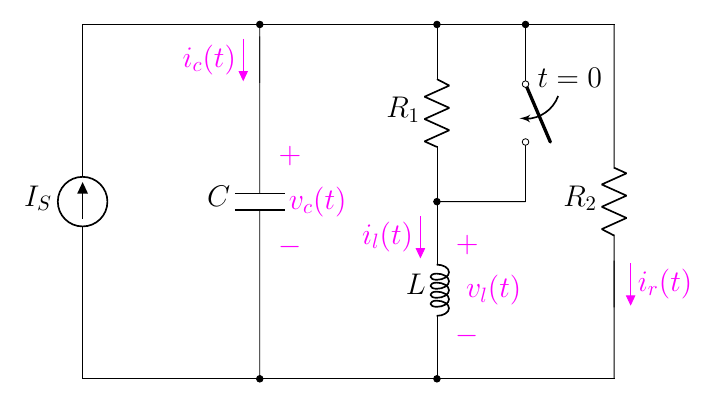
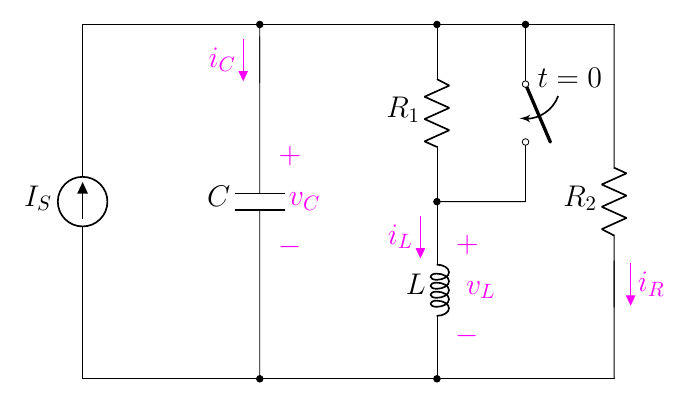
9.36

diff --git a/2.8 Underdamped/9.4 The Underdamped RLC Circuit/9.36-8th(new).tex b/2.8 Underdamped/9.4 The Underdamped RLC Circuit/9.36-8th(new).tex
@@ -37,19 +37,19 @@
     %%% find %%%
     \node at(8.25,5.1) []{$t=0$};
     \draw[magenta](6.2,0.5)
-        to[open,v>=$v_l(t)$] ++(0,2);
+        to[open,v>=$v_L$] ++(0,2);
 
     \draw[magenta](3.2,2)
-        to[open,v>=$v_c(t)$] ++(0,2);
+        to[open,v>=$v_C$] ++(0,2);
 
     \draw[circuitikz/current arrow color=magenta](6,2.8)
-        to[open,f>_=$\color{magenta}{i_l(t)}$] ++(0,-2);
+        to[open,f>_=$\color{magenta}{i_L}$] ++(0,-2);
 
     \draw[circuitikz/current arrow color=magenta](3,5.8)
-        to[open,f>_=$\color{magenta}{i_c(t)}$] ++(0,-2);
+        to[open,f>_=$\color{magenta}{i_C}$] ++(0,-2);
 
     \draw[circuitikz/current arrow color=magenta](9,2)
-        to[open,f>^=$\color{magenta}{i_r(t)}$] ++(0,-2);
+        to[open,f>^=$\color{magenta}{i_R}$] ++(0,-2);
 
 \end{circuitikz}
 \end{document}
